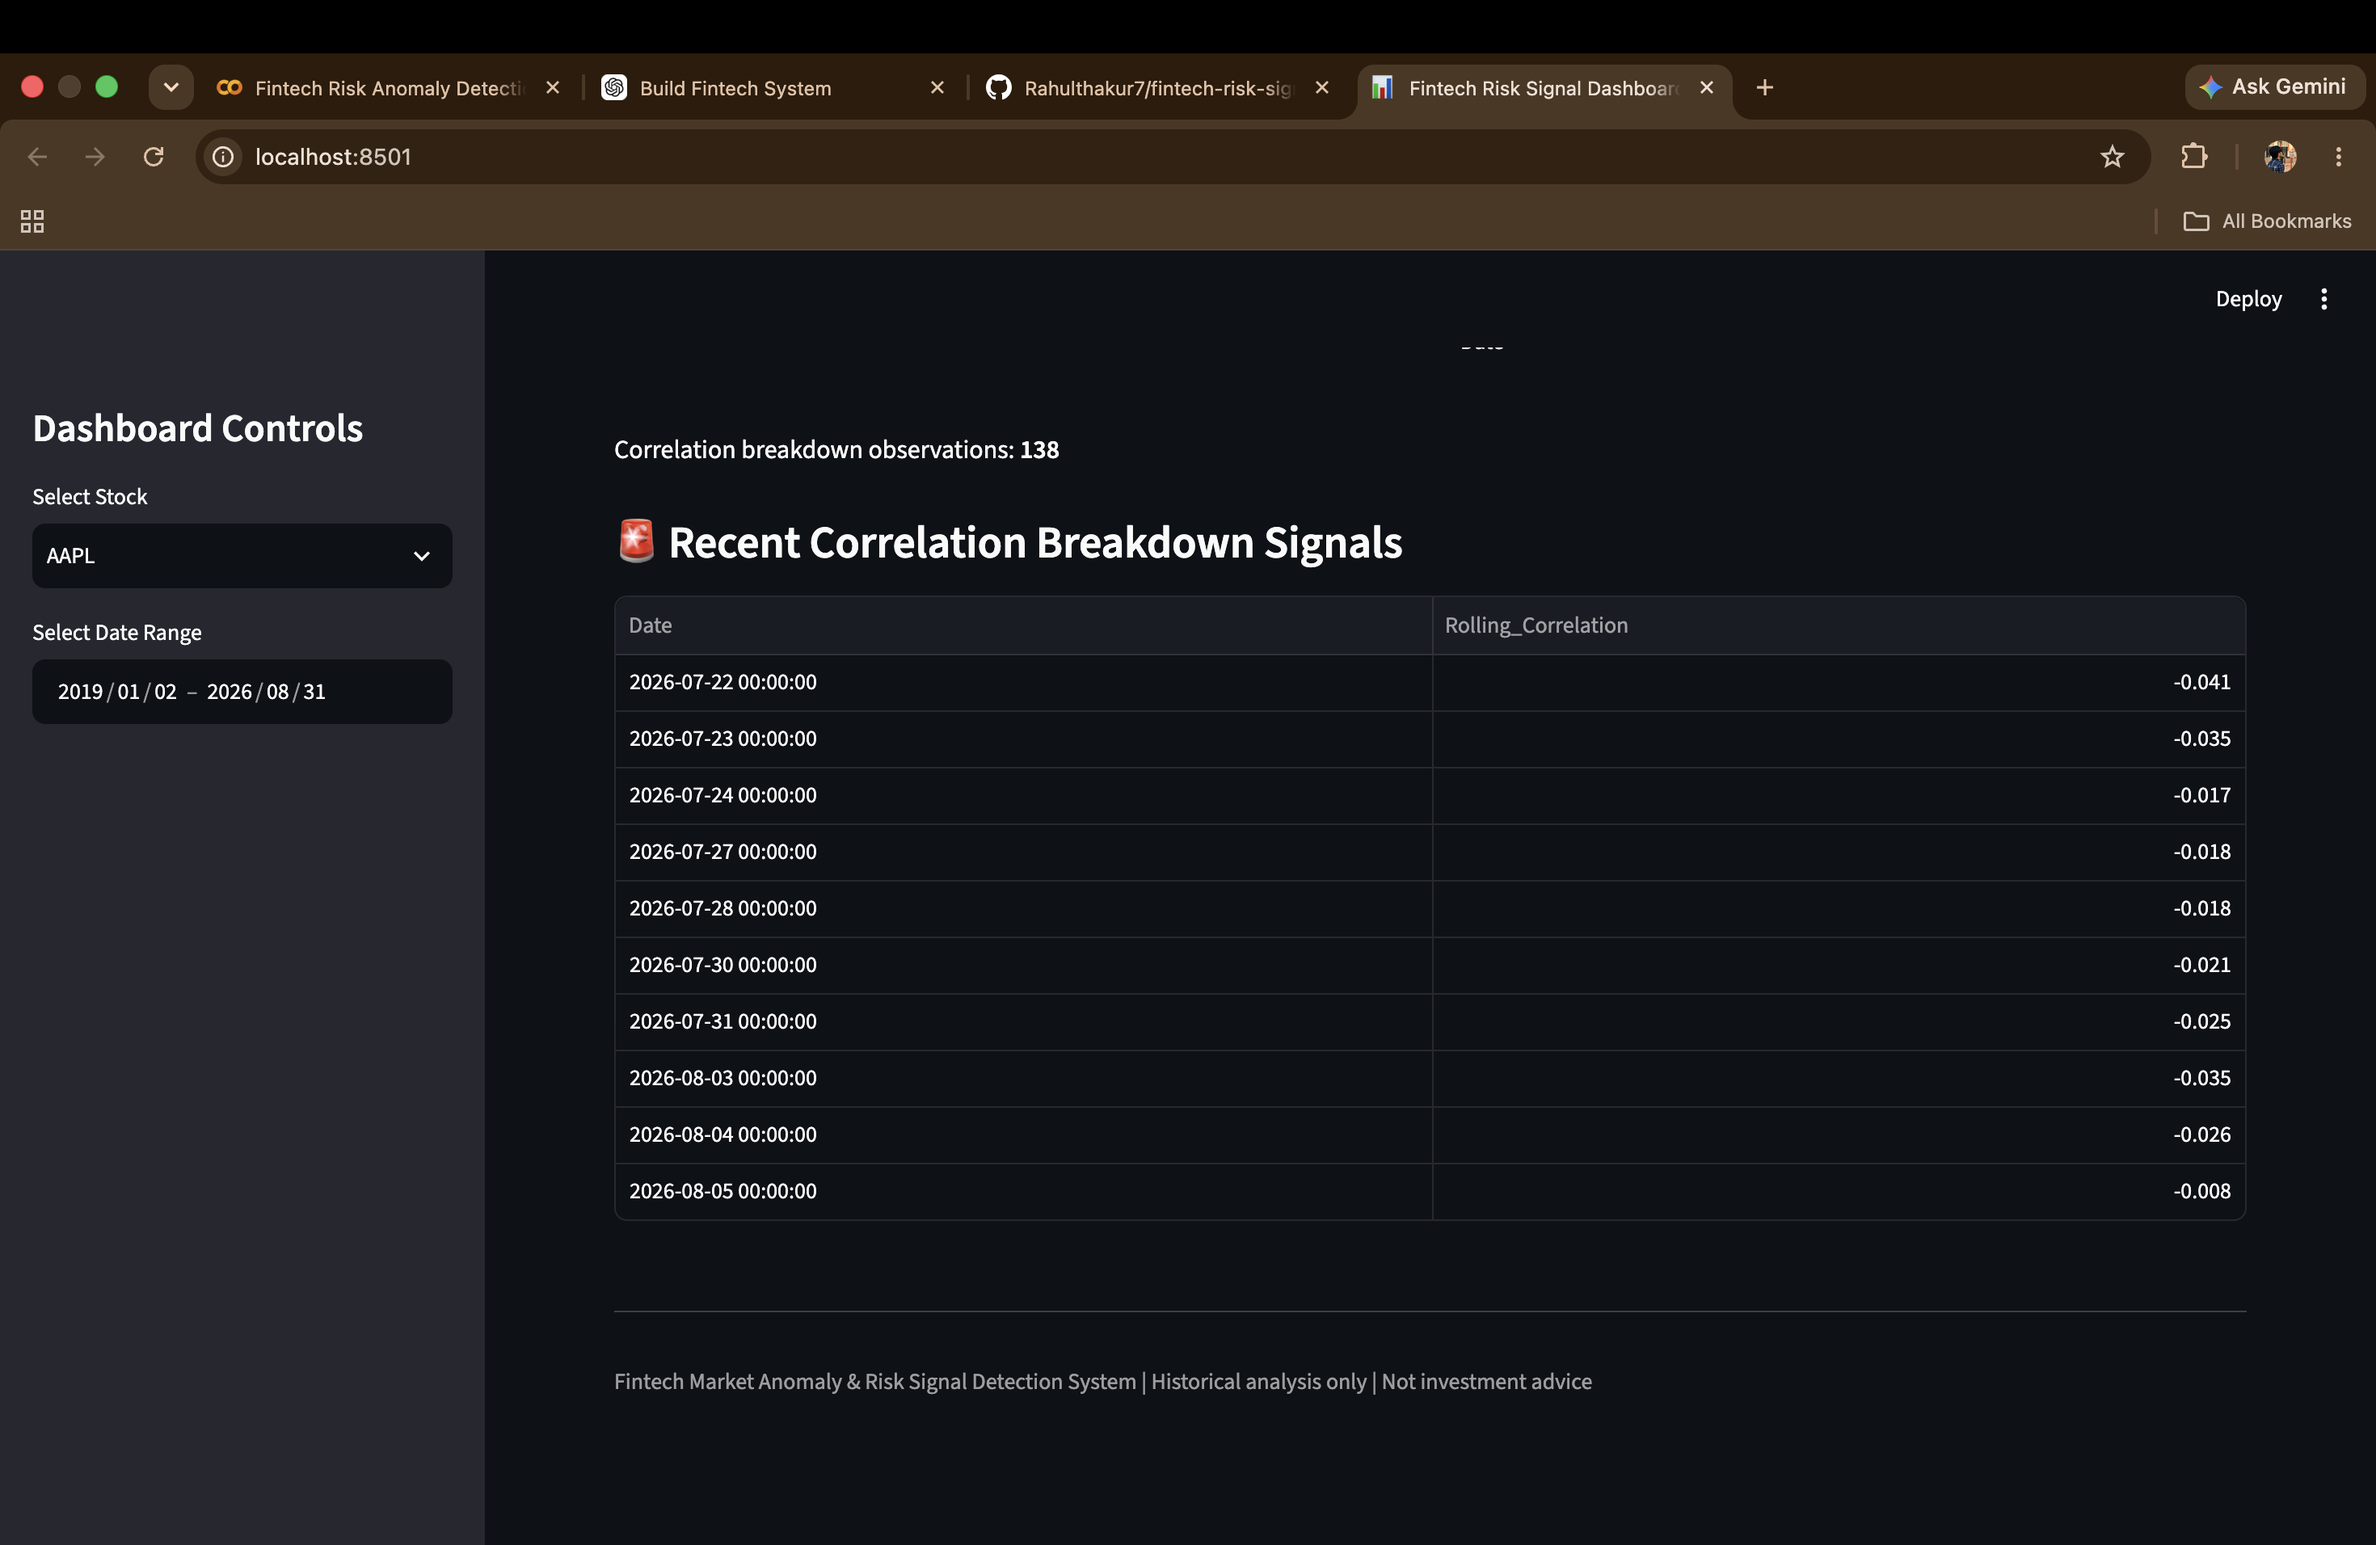
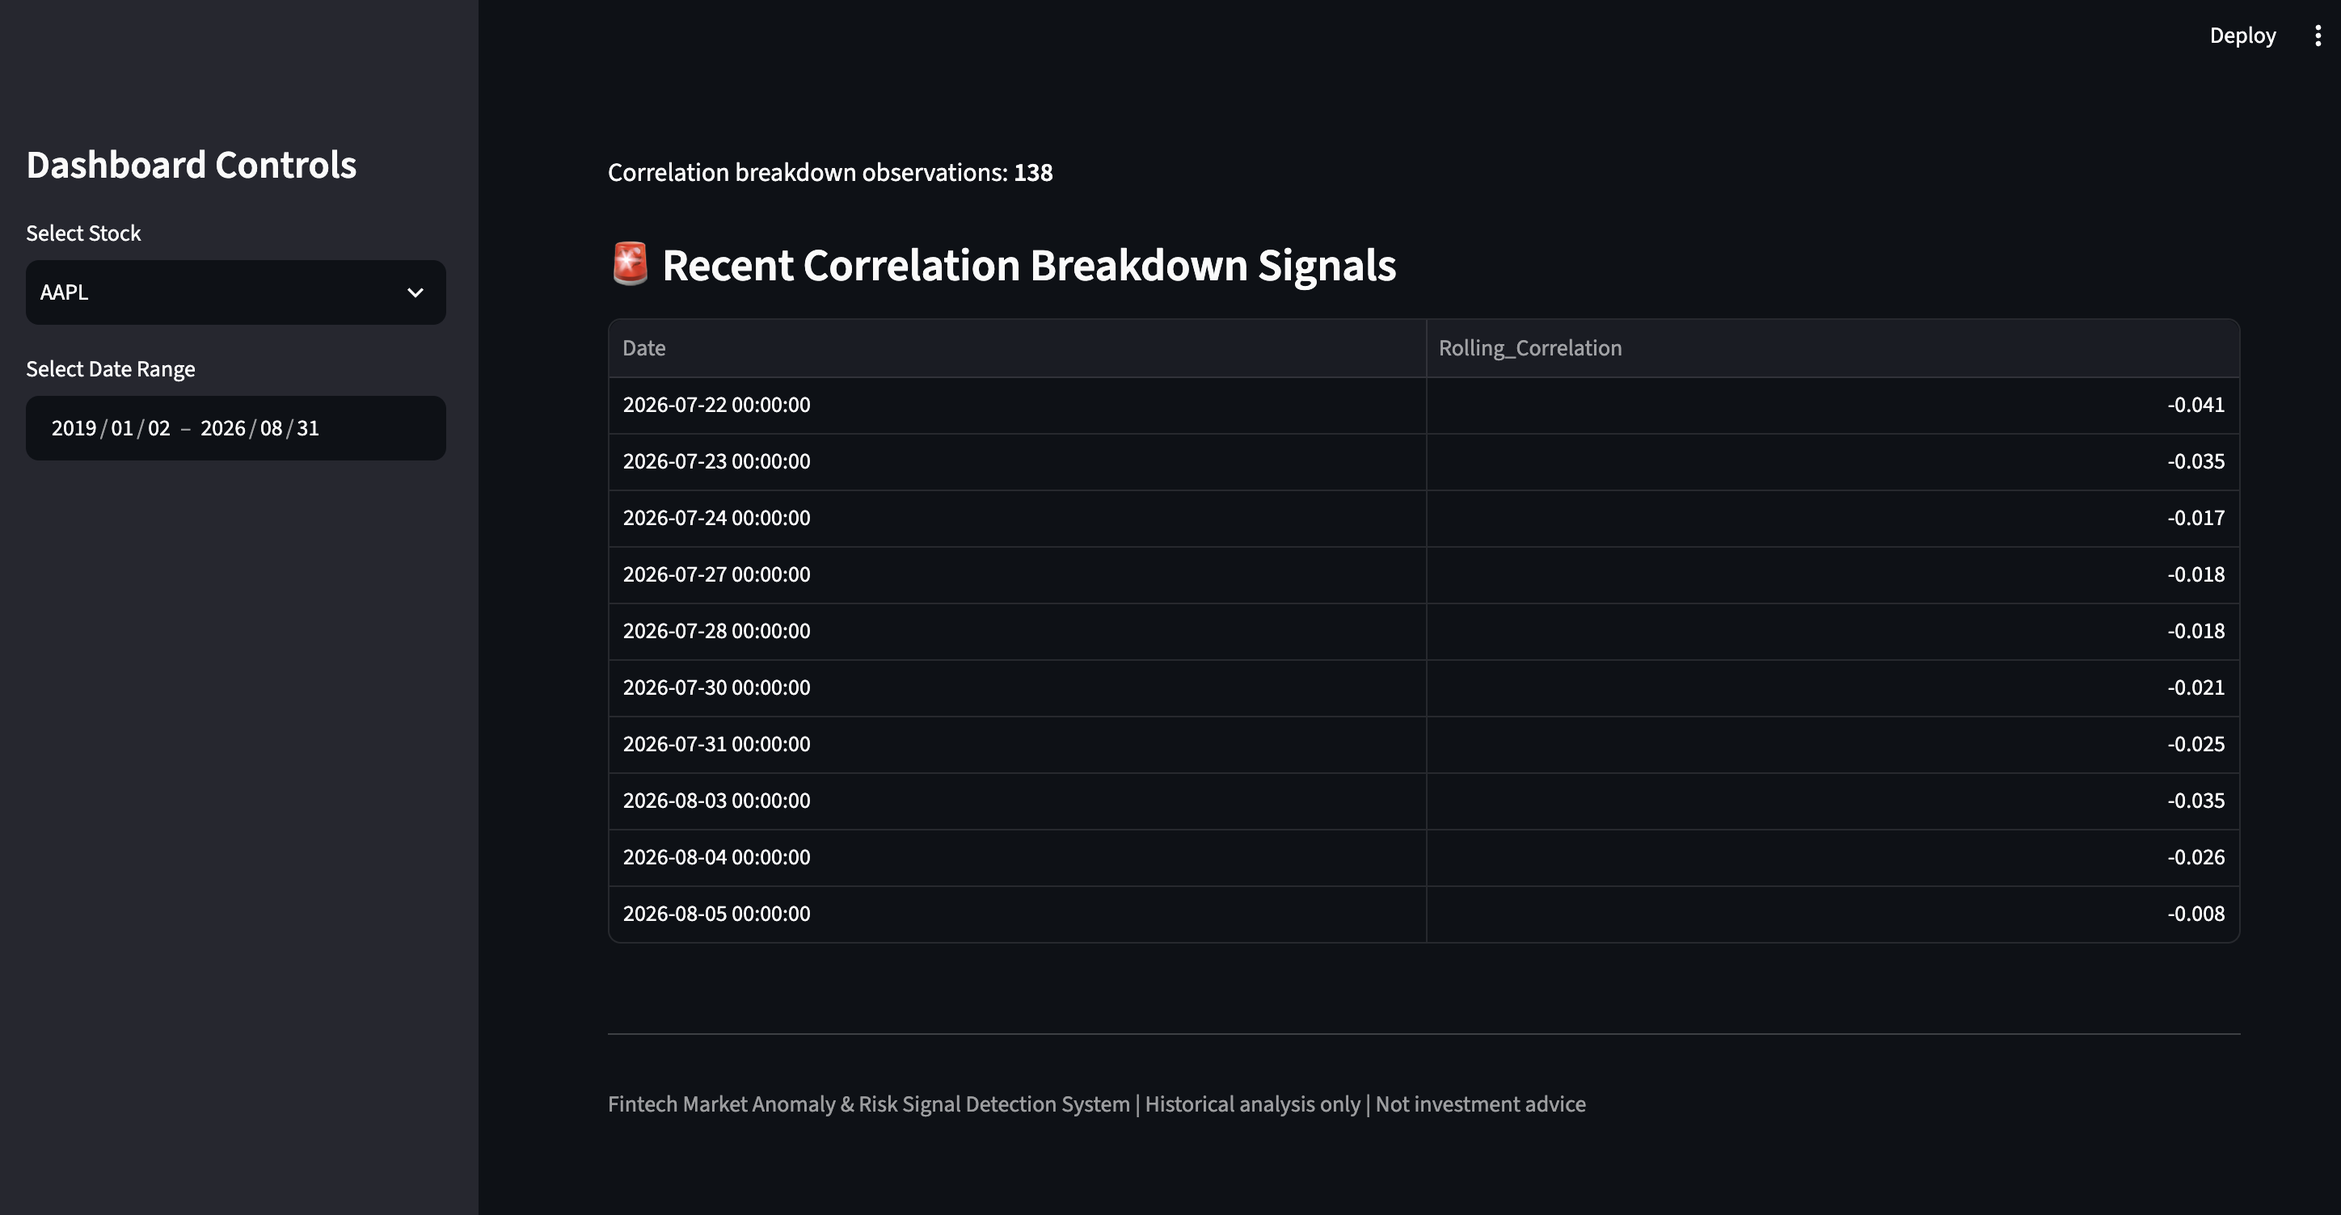
Update dashboard and clean project files

diff --git a/app.py b/app.py
@@ -4,9 +4,7 @@ import numpy as np
 import plotly.graph_objects as go
 
 
-# ============================================================
-# PAGE CONFIGURATION
-# ============================================================
+
 
 st.set_page_config(
     page_title="Fintech Risk Signal Dashboard",
@@ -14,10 +12,7 @@ st.set_page_config(
     layout="wide"
 )
 
-
-# ============================================================
-# DATA LOADING
-# ============================================================
+#loading Data
 
 @st.cache_data
 def load_data():
@@ -31,7 +26,6 @@ def load_data():
 
     prices.index.name = "Date"
 
-    # Make sure all price columns are numeric
     prices = prices.apply(pd.to_numeric, errors="coerce")
 
     # Anomaly backtest results
@@ -70,9 +64,7 @@ def load_data():
     return prices, backtest, summary
 
 
-# ============================================================
-# LOAD DATA
-# ============================================================
+#loading Data
 
 try:
 
@@ -91,9 +83,7 @@ except FileNotFoundError as e:
     st.stop()
 
 
-# ============================================================
-# PREPARE DATA
-# ============================================================
+#preparing Data
 
 # Remove completely empty columns
 prices = prices.dropna(axis=1, how="all")
@@ -105,9 +95,7 @@ prices = prices.dropna(axis=0, how="all")
 returns = prices.pct_change()
 
 
-# ============================================================
-# SIDEBAR
-# ============================================================
+
 
 st.sidebar.title("Dashboard Controls")
 
@@ -150,9 +138,7 @@ filtered_prices = prices.loc[
 ]
 
 
-# ============================================================
-# MAIN TITLE
-# ============================================================
+
 
 st.title("📊 Fintech Risk Signal Dashboard")
 
@@ -166,9 +152,8 @@ st.caption(
 )
 
 
-# ============================================================
-# STOCK SUMMARY
-# ============================================================
+
+#summary
 
 stock_row = stock_summary[
     stock_summary["Ticker"] == selected_stock
@@ -208,9 +193,7 @@ if not stock_row.empty:
     )
 
 
-# ============================================================
-# RISK OVERVIEW
-# ============================================================
+#risk overview
 
 st.header(
     f"📌 {selected_stock} Risk Overview"
@@ -247,9 +230,7 @@ with col4:
     )
 
 
-# ============================================================
-# PRICE HISTORY + ANOMALIES
-# ============================================================
+#price history anamoly
 
 st.header(
     f"📈 {selected_stock} Price History"
@@ -329,9 +310,7 @@ st.plotly_chart(
 )
 
 
-# ============================================================
-# ANOMALY SUMMARY
-# ============================================================
+
 
 st.header("🚨 Anomaly Summary")
 
@@ -361,14 +340,13 @@ if "Average_Absolute_5D_Return" in summary_display.columns:
 
 st.dataframe(
     summary_display,
-    width="stretch",
+    use_container_width=True,
     hide_index=False
 )
 
 
-# ============================================================
-# 5-DAY FORWARD RETURN ANALYSIS
-# ============================================================
+# 5 day forward return analysis
+
 
 st.header("📊 5-Day Forward Return Analysis")
 
@@ -467,9 +445,7 @@ else:
     )
 
 
-# ============================================================
-# STOCK RISK SIGNAL RANKING
-# ============================================================
+#stock risk signal ranking
 
 st.header("🏆 Stock Risk Signal Ranking")
 
@@ -513,9 +489,7 @@ st.dataframe(
 )
 
 
-# ============================================================
-# LARGE MOVES FOLLOWING ANOMALIES
-# ============================================================
+#large moves following anomalies
 
 st.header("⚠ Large Moves Following Anomalies")
 
@@ -568,9 +542,7 @@ else:
     )
 
 
-# ============================================================
-# CORRELATION BREAKDOWN ANALYSIS
-# ============================================================
+#corelation breakdown with JPM
 
 st.header("📉 Correlation Breakdown with JPM")
 
@@ -612,9 +584,9 @@ if "JPM" in returns.columns and selected_stock != "JPM":
         )
 
 
-        # ----------------------------------------------------
+        
         # Correlation chart
-        # ----------------------------------------------------
+        
 
         corr_fig = go.Figure()
 
@@ -654,14 +626,9 @@ if "JPM" in returns.columns and selected_stock != "JPM":
         )
 
 
-        # ----------------------------------------------------
-        # Correlation breakdown
-        # ----------------------------------------------------
-        #
-        # Based on Phase 4:
-        # flag when correlation drops by more than 0.4
-        # compared with 60 days earlier.
-        # ----------------------------------------------------
+        
+        
+#correlation breakdown detection
 
         correlation_drop = (
             corr_df["Rolling_Correlation"].shift(60)
@@ -738,9 +705,8 @@ else:
     )
 
 
-# ============================================================
-# FOOTER
-# ============================================================
+
+#footer
 
 st.divider()
 

diff --git a/load_data.py b/load_data.py
@@ -6,9 +6,9 @@ engine = create_engine(
     "mysql+mysqlconnector://risk_user:RiskProject%4012345@127.0.0.1:3306/fintech_risk"
 )
 
-# -----------------------------
+
 # Load stock prices
-# -----------------------------
+
 
 prices = pd.read_csv("data/raw_prices.csv")
 
@@ -23,7 +23,7 @@ prices = prices.melt(
 prices["Date"] = pd.to_datetime(prices["Date"]).dt.date
 prices = prices.dropna(subset=["close_price"])
 
-# Load into MySQL
+# Loading into MySQL
 prices.to_sql(
     "daily_prices",
     con=engine,
@@ -36,9 +36,9 @@ print("Stock prices loaded successfully!")
 print("Rows loaded:", len(prices))
 
 
-# -----------------------------
+
 # Load macro indicators
-# -----------------------------
+
 
 macro = pd.read_csv("data/raw_macro.csv")
 
